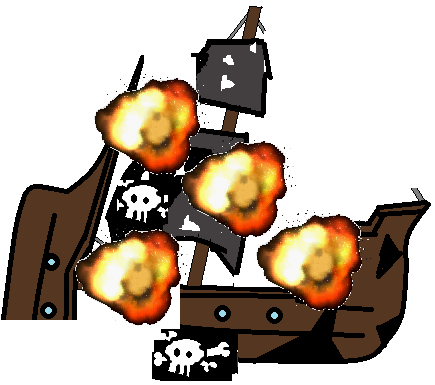
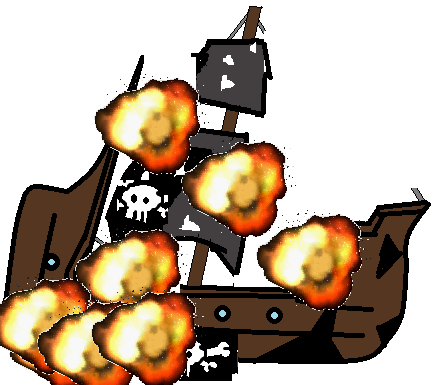
Se modifico la explosion del barquito y se agregaron algunos assets

Changed region(s): [[0.0, 0.7169, 0.4483, 1.0]]

diff --git a/Barquitos(NamePending)/GameLibrary/game.js b/Barquitos(NamePending)/GameLibrary/game.js
@@ -28,9 +28,9 @@
     var balasAzules = new Array(); //Array que contiene las balas disparadas por el jugador 1.
 
     // Variables que guardan los sonidos del video juego.
-    var snd = new Audio("Assets/explosion.wav");
+    var defendSnd = new Audio("Assets/explosion.wav");
     var disparoSnd = new Audio("Assets/GunShot.wav");
-    var defendSnd = new Audio("Assets/ExplosionMetal.wav");
+    var snd = new Audio("Assets/ExplosionMetal.wav");
     var looseSnd = new Audio("Assets/WaterSurfaceExplosion01.wav");
 
     //Variables que guardan el estado del barco
